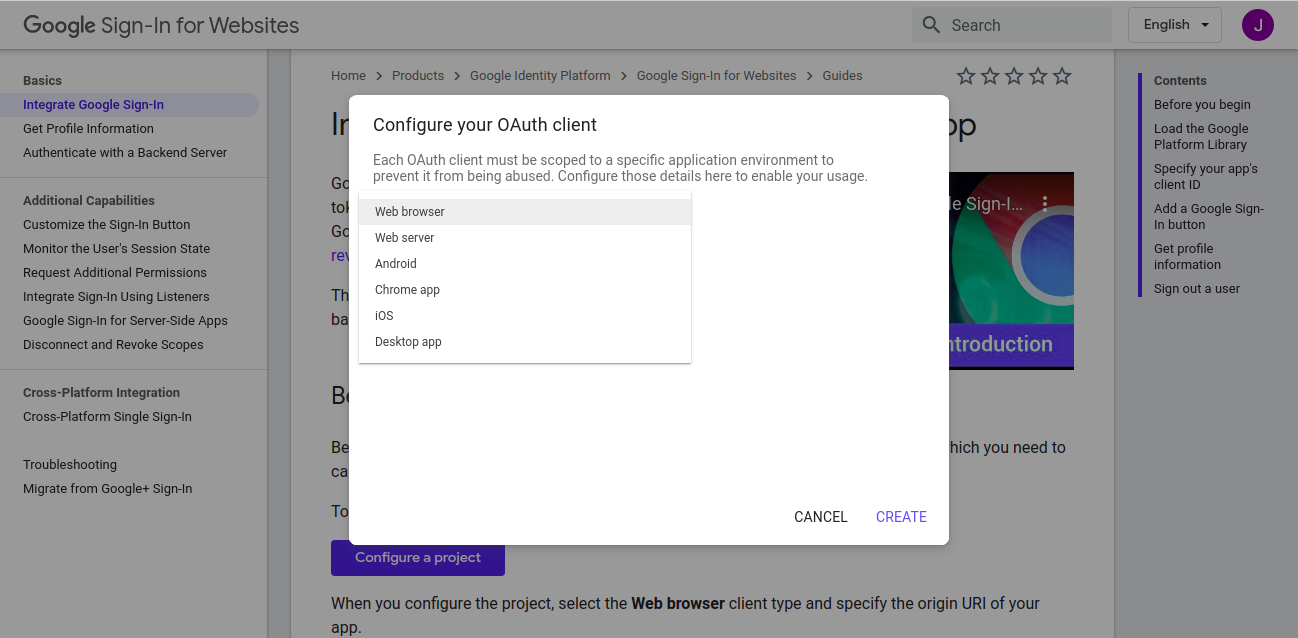
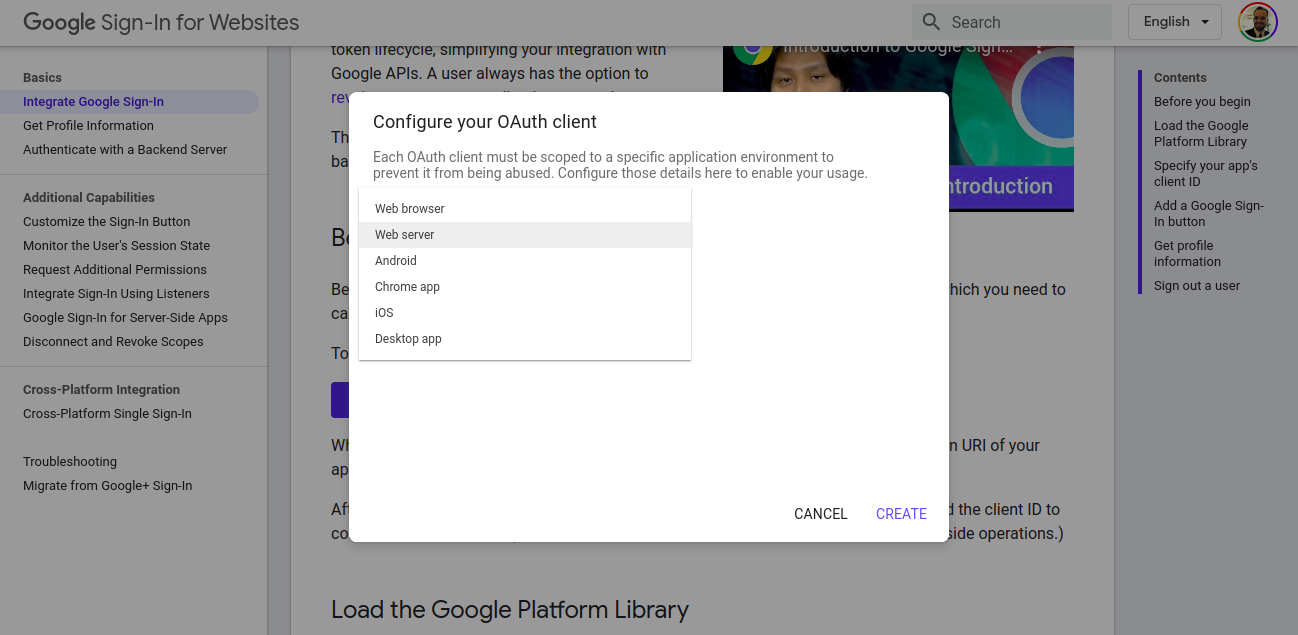
update the google credential step by step

diff --git a/docs/GOOGLE-CREDENTIAL-STEP-BY-STEP.md b/docs/GOOGLE-CREDENTIAL-STEP-BY-STEP.md
@@ -22,17 +22,30 @@ Specify the product name that will be show for the users during the login procce
 ![Google Page Step 3](/docs/img/google-credential-step-3.png)
 
 # Step 4
-Now you have to choose a kind of client id you want to create. Select the option **Web Browser**
+Now you have to choose a kind of client id you want to create. Select the option **Web Server**
 
 ![Google Page Step 4](/docs/img/google-credential-step-4.png)
 
 # Step 5
 
-After chosed the option **Web Browser** the window will ask you to set the matrix url. This is an important step. You have to talk with your IT department to indicate the correct link of your service. In this example we are configuring for local environment, so we inputed `http://localhost:8080`
+After chosed the option **Web Server** the window will ask you to set the matrix callback url. This is an important step. You have to talk with your IT department to indicate the correct domain link of your service. In this example we are configuring for local environment, so we inputed the value localhost `http://localhost:8080/auth/google/callback` for the local tests. In your case the value will be like this: `http://mydomain.com/auth/google/callback`  
+ 
 
 ![Google Page Step 5](/docs/img/google-credential-step-5.png)
 
 # Step 6
+Now you have the valid `client Id` and `Client Secret`. You will use this values in the next step.
 
-You have to copy `Client ID` and set the environent variable `GOOGLE_CREDENTIAL` with the value.
+![Google Page Step 6](/docs/img/google-credential-step-6.png)
+
+# Step 7
+
+You have to copy `Client ID` and `Client Secret` and set the environent variable like this sample:
+
+
+```
+GOOGLE_CLIENT_ID="00000000-xxxxxxxxxxxxx.apps.googleusercontent.com"
+GOOGLE_SECRET="g4xxxxxxxxxxxxxxxxxxss"
+GOOGLE_CALLBACK_URL="http://localhost:8080/auth/google/callback"
+```
 
